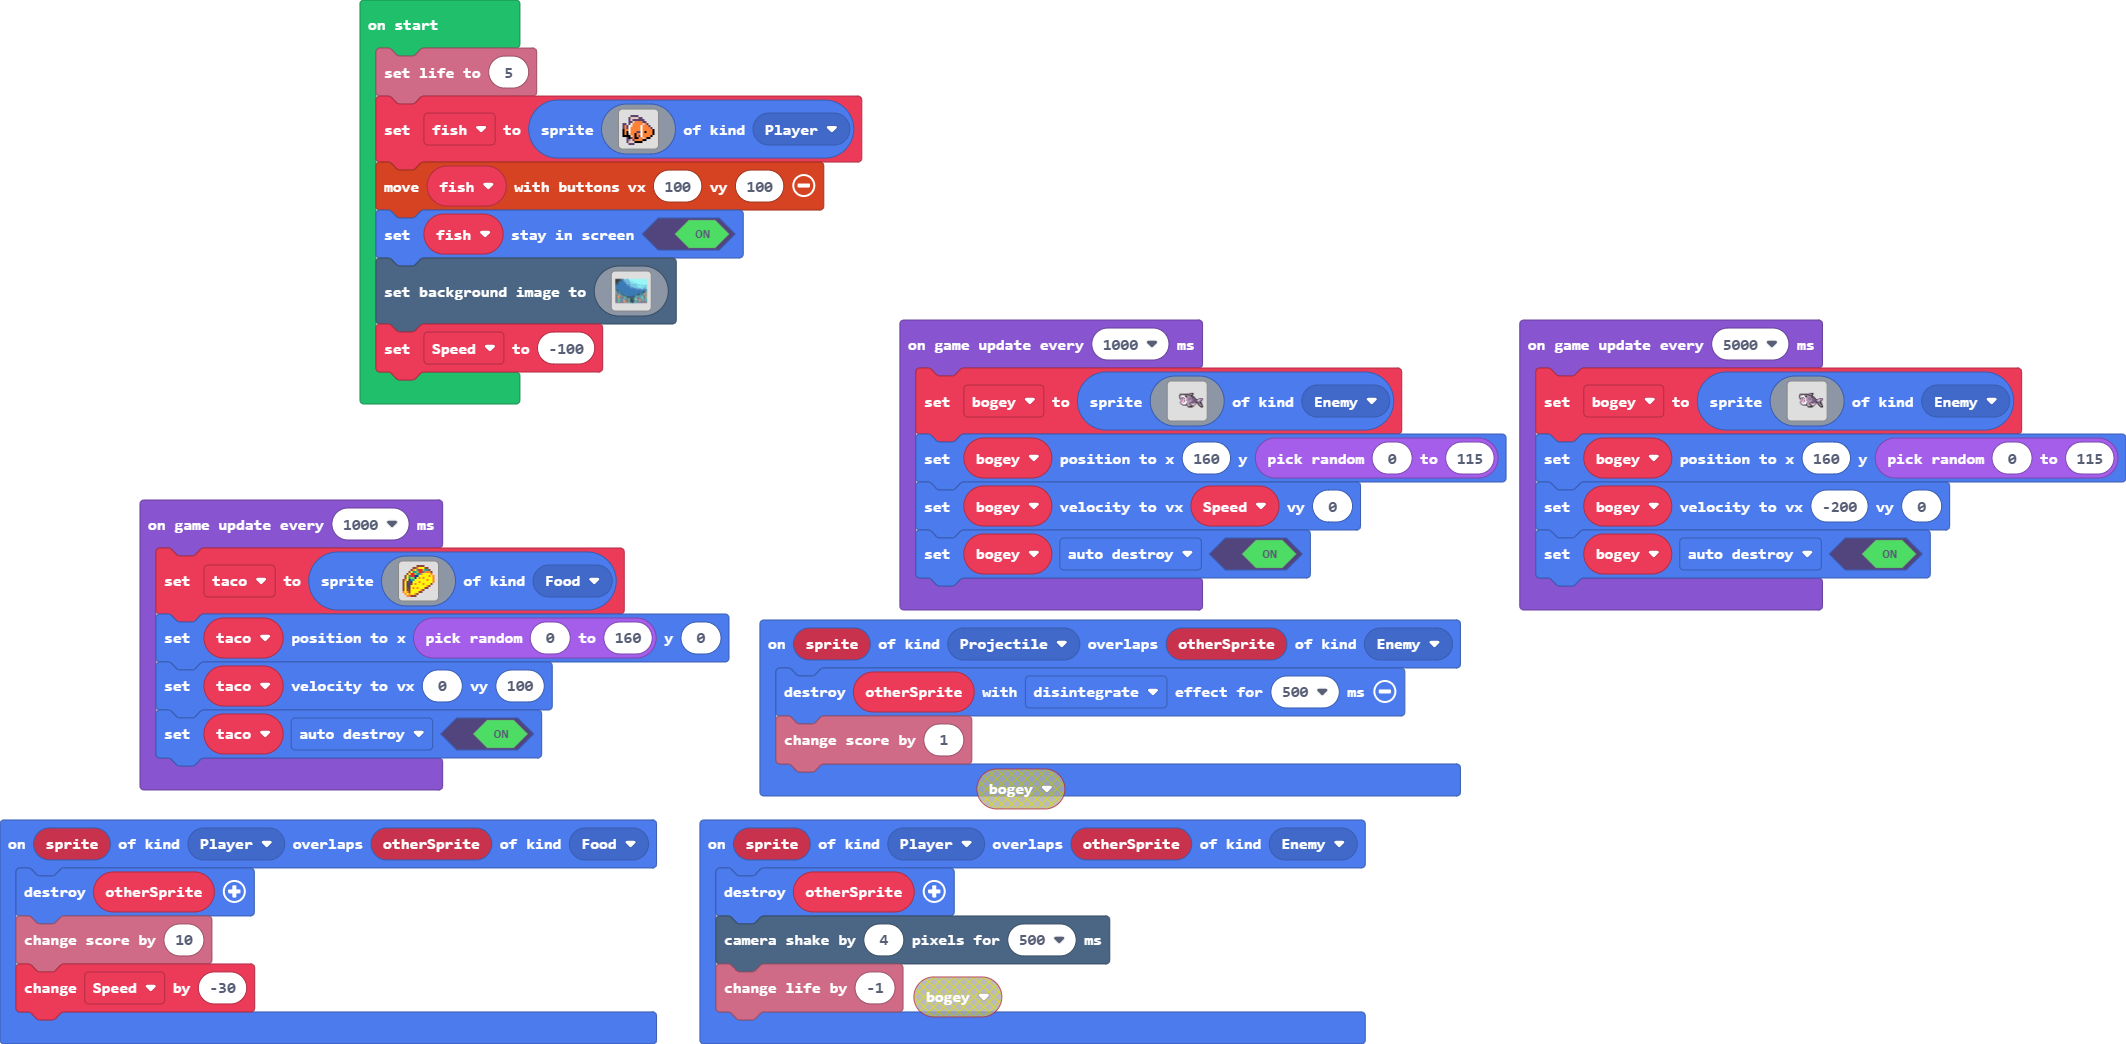
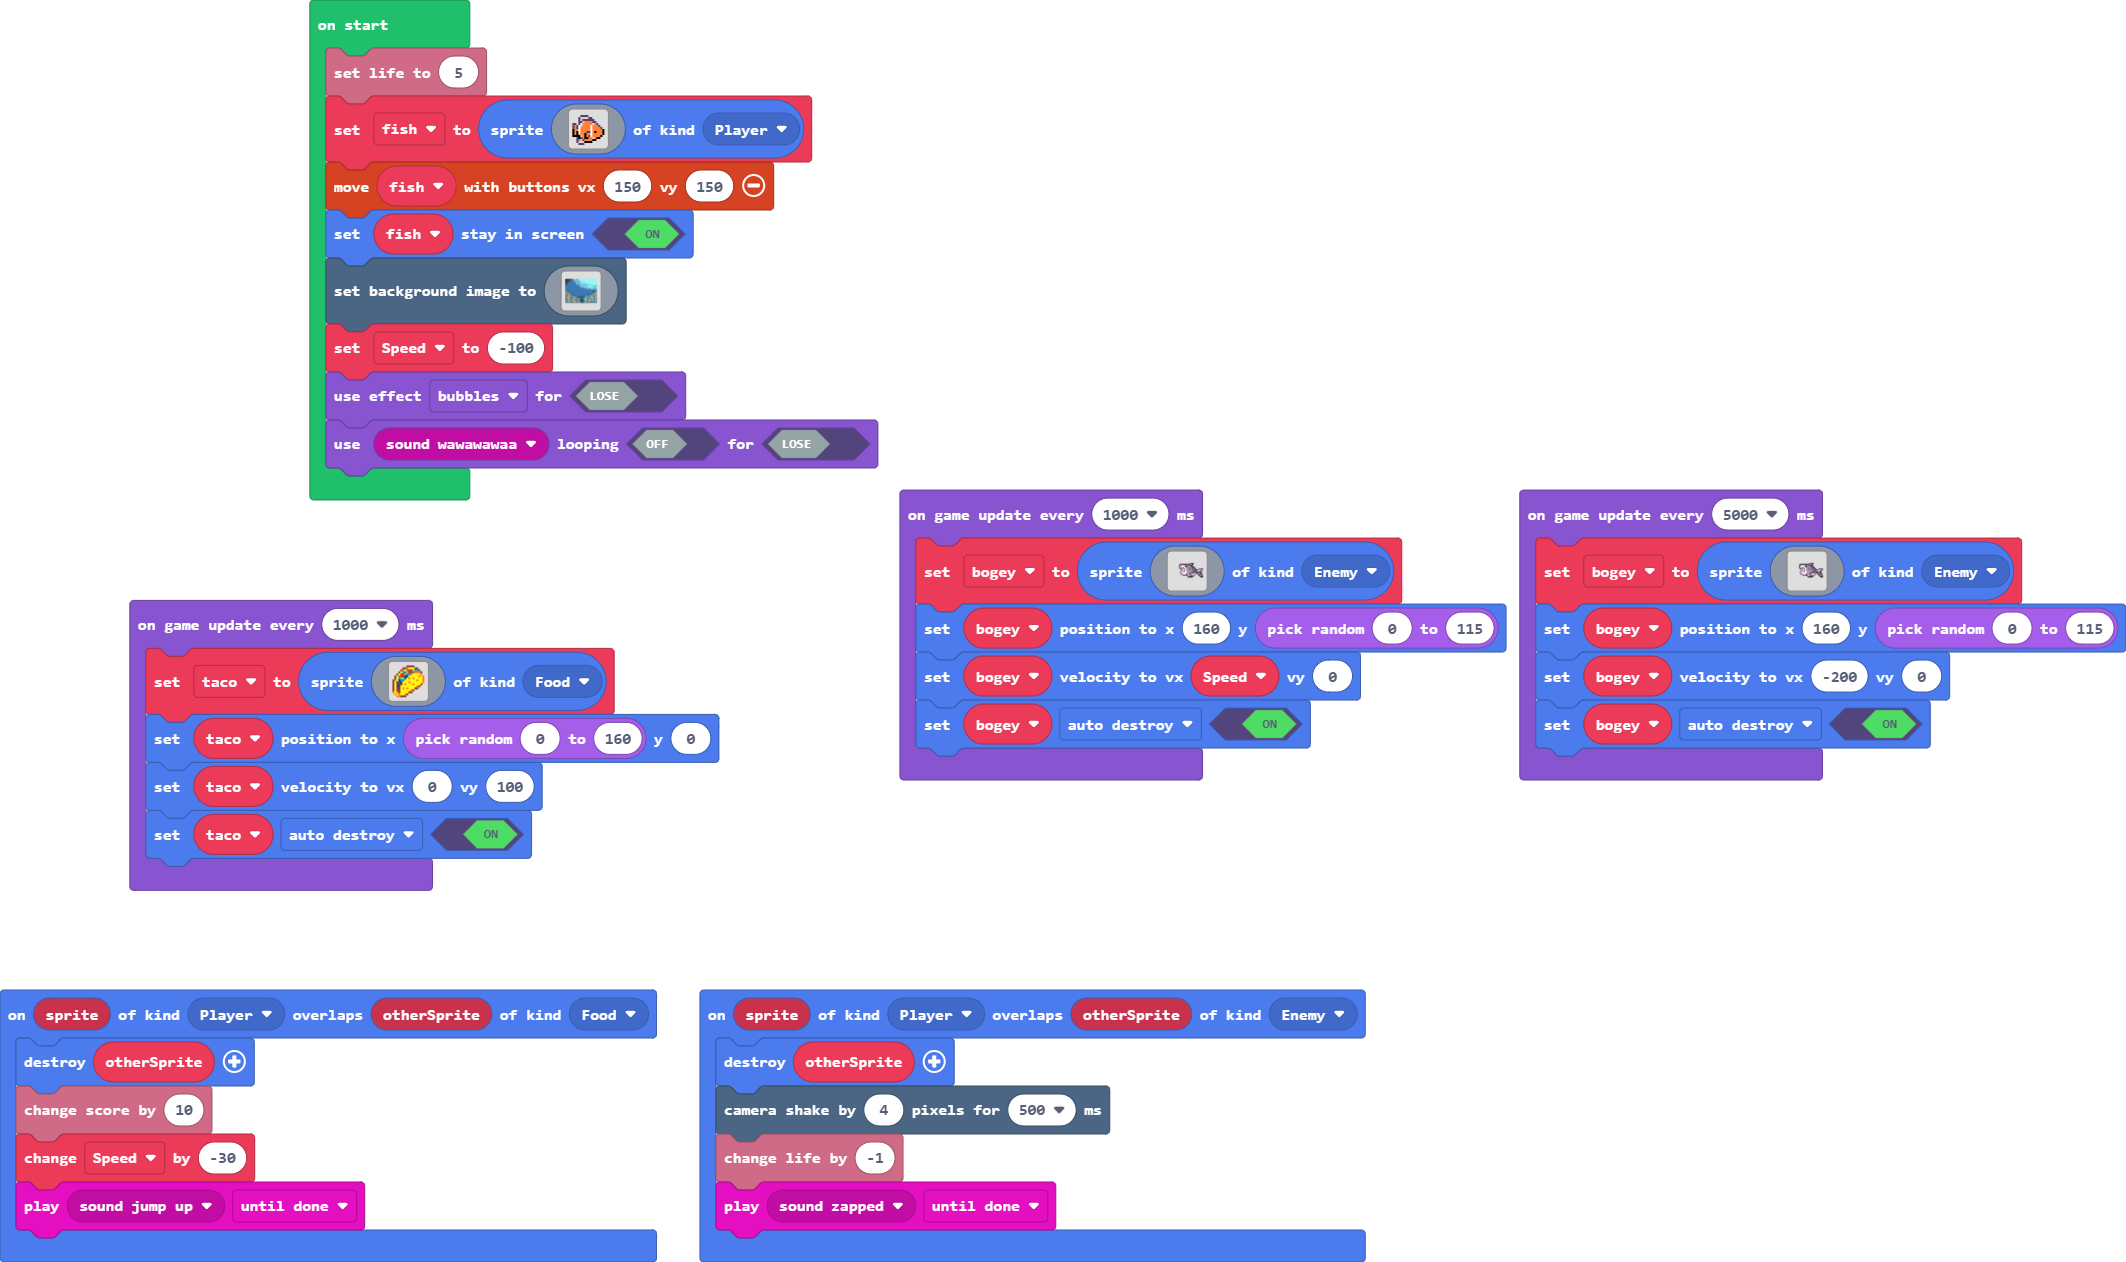
Update main.blocks, main.ts

diff --git a/main.ts b/main.ts
@@ -2,15 +2,13 @@ sprites.onOverlap(SpriteKind.Player, SpriteKind.Food, function (sprite, otherSpr
     otherSprite.destroy()
     info.changeScoreBy(10)
     Speed += -30
-})
-sprites.onOverlap(SpriteKind.Projectile, SpriteKind.Enemy, function (sprite, otherSprite) {
-    otherSprite.destroy(effects.disintegrate, 500)
-    info.changeScoreBy(1)
+    music.play(music.melodyPlayable(music.jumpUp), music.PlaybackMode.UntilDone)
 })
 sprites.onOverlap(SpriteKind.Player, SpriteKind.Enemy, function (sprite, otherSprite) {
     otherSprite.destroy()
     scene.cameraShake(4, 500)
     info.changeLifeBy(-1)
+    music.play(music.melodyPlayable(music.zapped), music.PlaybackMode.UntilDone)
 })
 let taco: Sprite = null
 let bogey: Sprite = null
@@ -33,7 +31,7 @@ let fish = sprites.create(img`
     . . c d d d f f f f . . . . . . 
     . . . c c c . . . . . . . . . . 
     `, SpriteKind.Player)
-controller.moveSprite(fish, 100, 100)
+controller.moveSprite(fish, 150, 150)
 fish.setStayInScreen(true)
 scene.setBackgroundImage(img`
[1 lines of base64/hex data omitted]
@@ -158,6 +156,8 @@ scene.setBackgroundImage(img`
[1 lines of base64/hex data omitted]
     `)
 let Speed = -100
+game.setGameOverEffect(false, effects.bubbles)
+game.setGameOverPlayable(false, music.melodyPlayable(music.wawawawaa), false)
 game.onUpdateInterval(5000, function () {
     bogey = sprites.create(img`
         ....................ccfff...........
